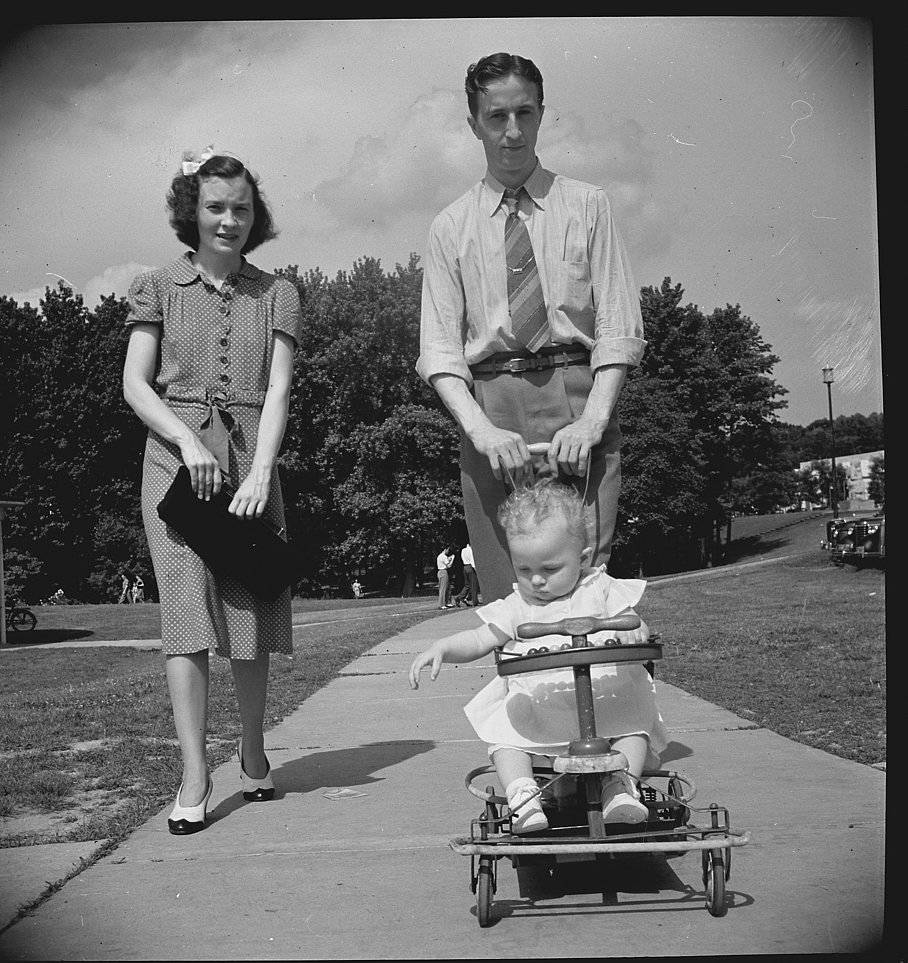
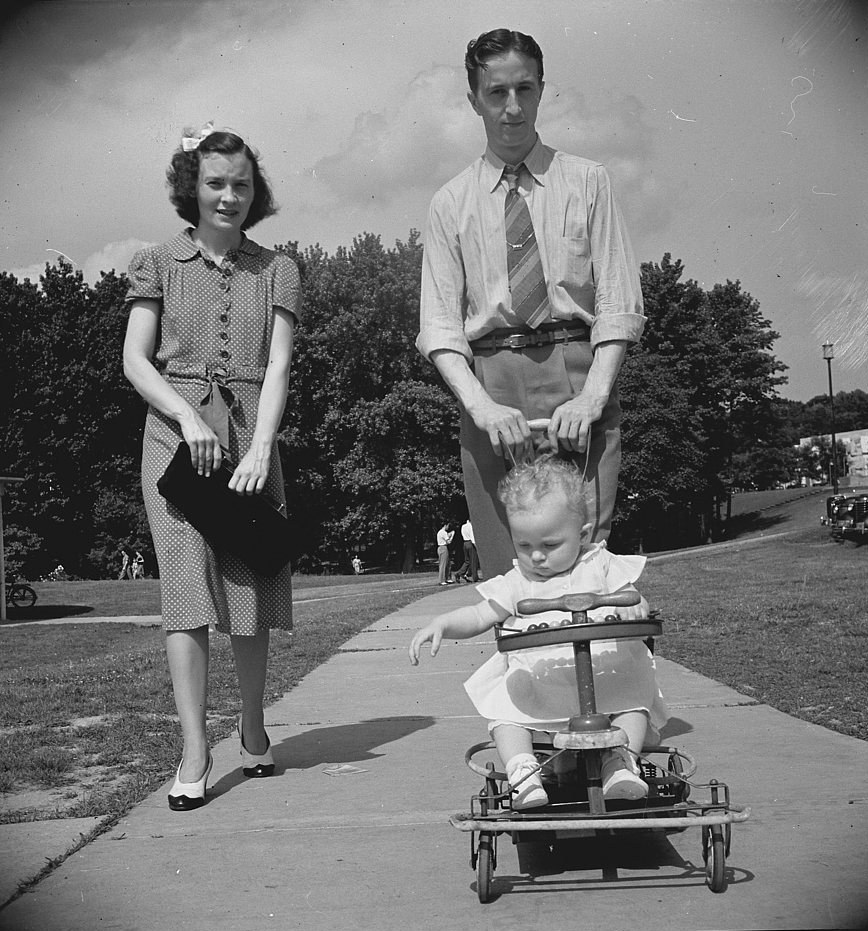
fix(marketing): run the hero photo under the glass header

diff --git a/src/components/marketing/hero/hero-years.tsx b/src/components/marketing/hero/hero-years.tsx
@@ -20,7 +20,9 @@ const RESUME_AFTER_MS = 5_000;
  * copy and the year as a date under it, travelling 1928 → 2026 on its own
  * while the hero is on screen and the tab is visible. Dragging the line
  * takes over; autoplay picks up from there a few seconds later. Reduced
- * motion: no autoplay, the hero rests on the wedding until moved by hand.
+ * motion: no autoplay, the hero rests on today until moved by hand. The
+ * photo runs up under the glass header (negative margin of its height);
+ * the copy starts below it.
  */
 export function HeroYears({ children }: { children: ReactNode }) {
   const reduced = useReducedMotion();
@@ -76,7 +78,7 @@ export function HeroYears({ children }: { children: ReactNode }) {
     <section
       ref={sectionRef}
       aria-labelledby="hero-title"
-      className="hero-years relative isolate flex min-h-[max(620px,calc(100svh-var(--marketing-header-h)))] flex-col overflow-hidden px-4 pt-14 pb-9 sm:px-6 sm:pt-16"
+      className="hero-years relative isolate -mt-(--marketing-header-h) flex min-h-[max(620px,100svh)] flex-col overflow-hidden px-4 pt-[calc(var(--marketing-header-h)+3.5rem)] pb-9 sm:px-6 sm:pt-[calc(var(--marketing-header-h)+4rem)]"
     >
       <HeroPhotos year={shown} />
       <div className="mx-auto flex w-full max-w-6xl flex-1 flex-col gap-6">

diff --git a/src/components/marketing/marketing-header.tsx b/src/components/marketing/marketing-header.tsx
@@ -40,7 +40,7 @@ export function MarketingHeader() {
   return (
     <header
       ref={headerRef}
-      className="marketing-header sticky top-0 z-40 border-b border-glass-edge bg-background/70 px-4 py-3 backdrop-blur-xl backdrop-saturate-150 sm:px-6"
+      className="marketing-header sticky top-0 z-40 border-b border-glass-edge bg-background/45 px-4 py-3 backdrop-blur-lg backdrop-saturate-150 sm:px-6"
     >
       <div className="mx-auto max-w-6xl">
         <div className="flex items-center justify-between gap-4">

diff --git a/src/components/marketing/shared/landing-photos.ts b/src/components/marketing/shared/landing-photos.ts
@@ -25,8 +25,8 @@ export const LANDING_PHOTOS = {
   /** Marjory Collins, Greenbelt, Maryland, 1942 (Library of Congress). */
   stroll: {
     src: "/landing/stroll.jpg",
-    width: 908,
-    height: 963,
+    width: 868,
+    height: 931,
     source:
       "https://commons.wikimedia.org/wiki/File:Greenbelt,_Maryland._Family_strolling_on_Sunday8d21147v.jpg",
   },
